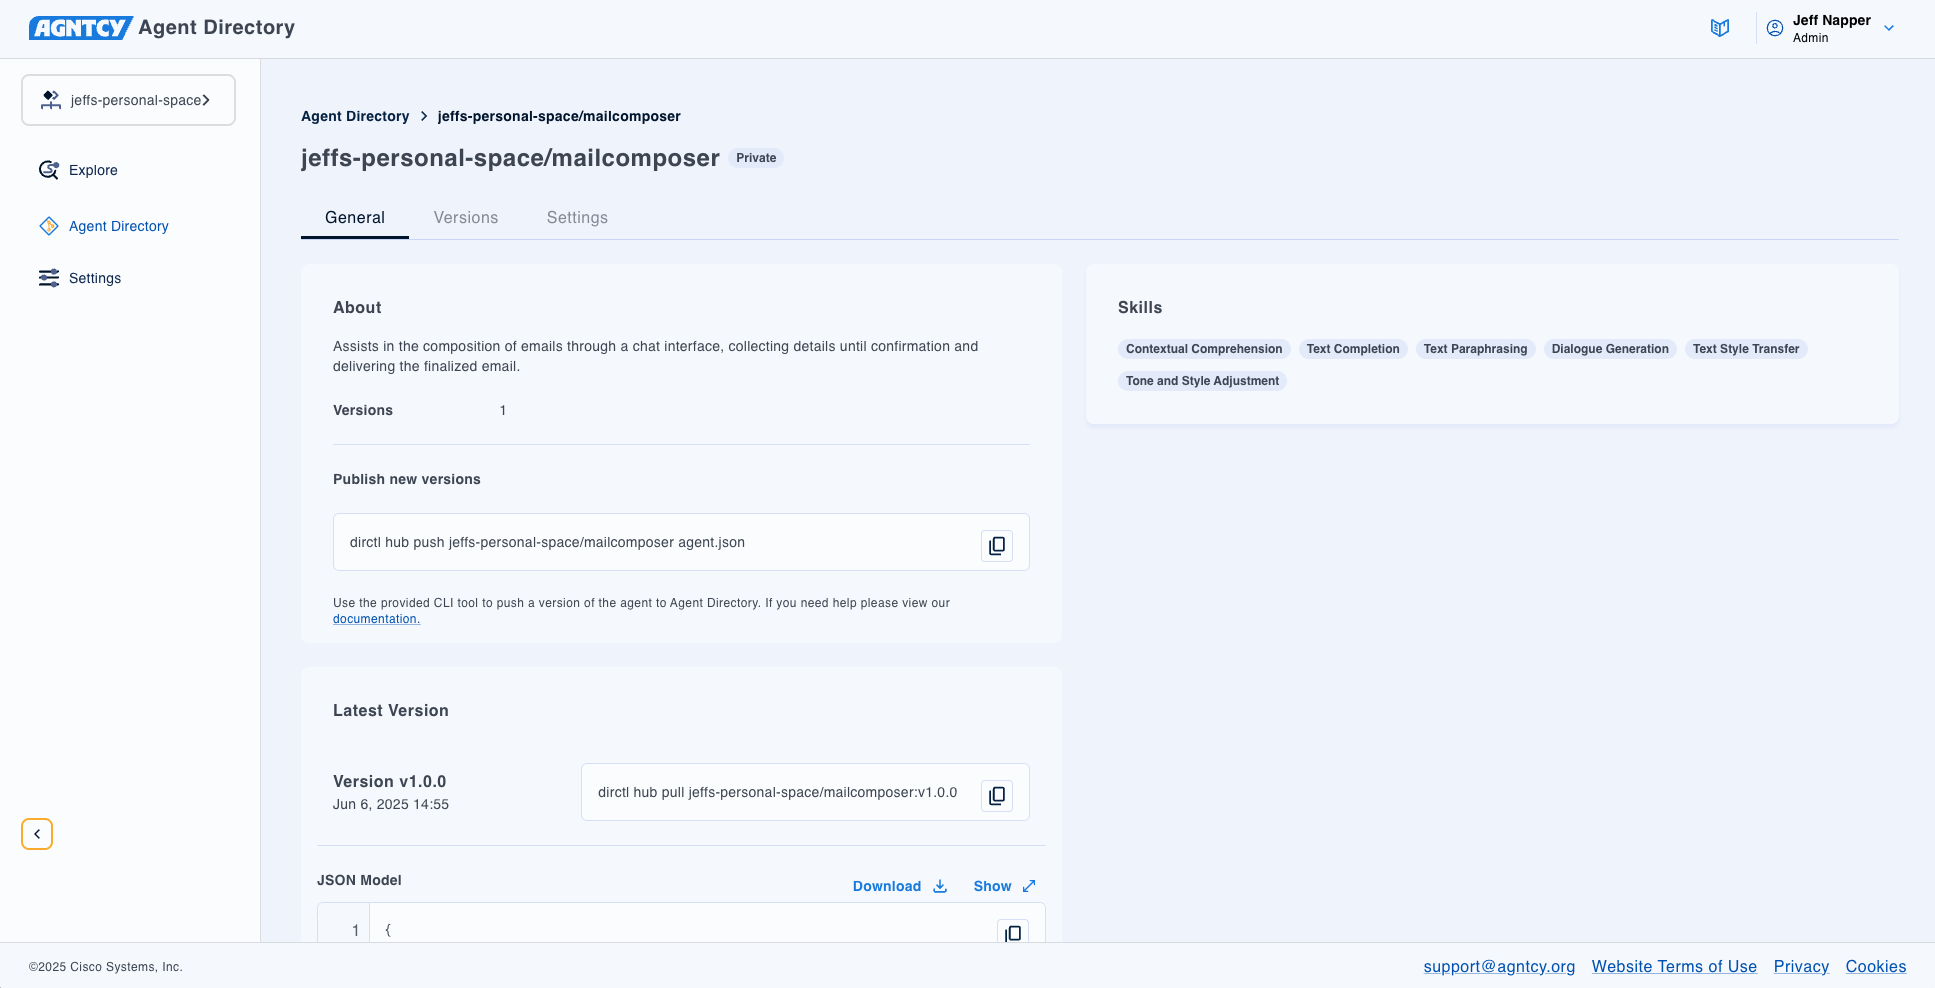
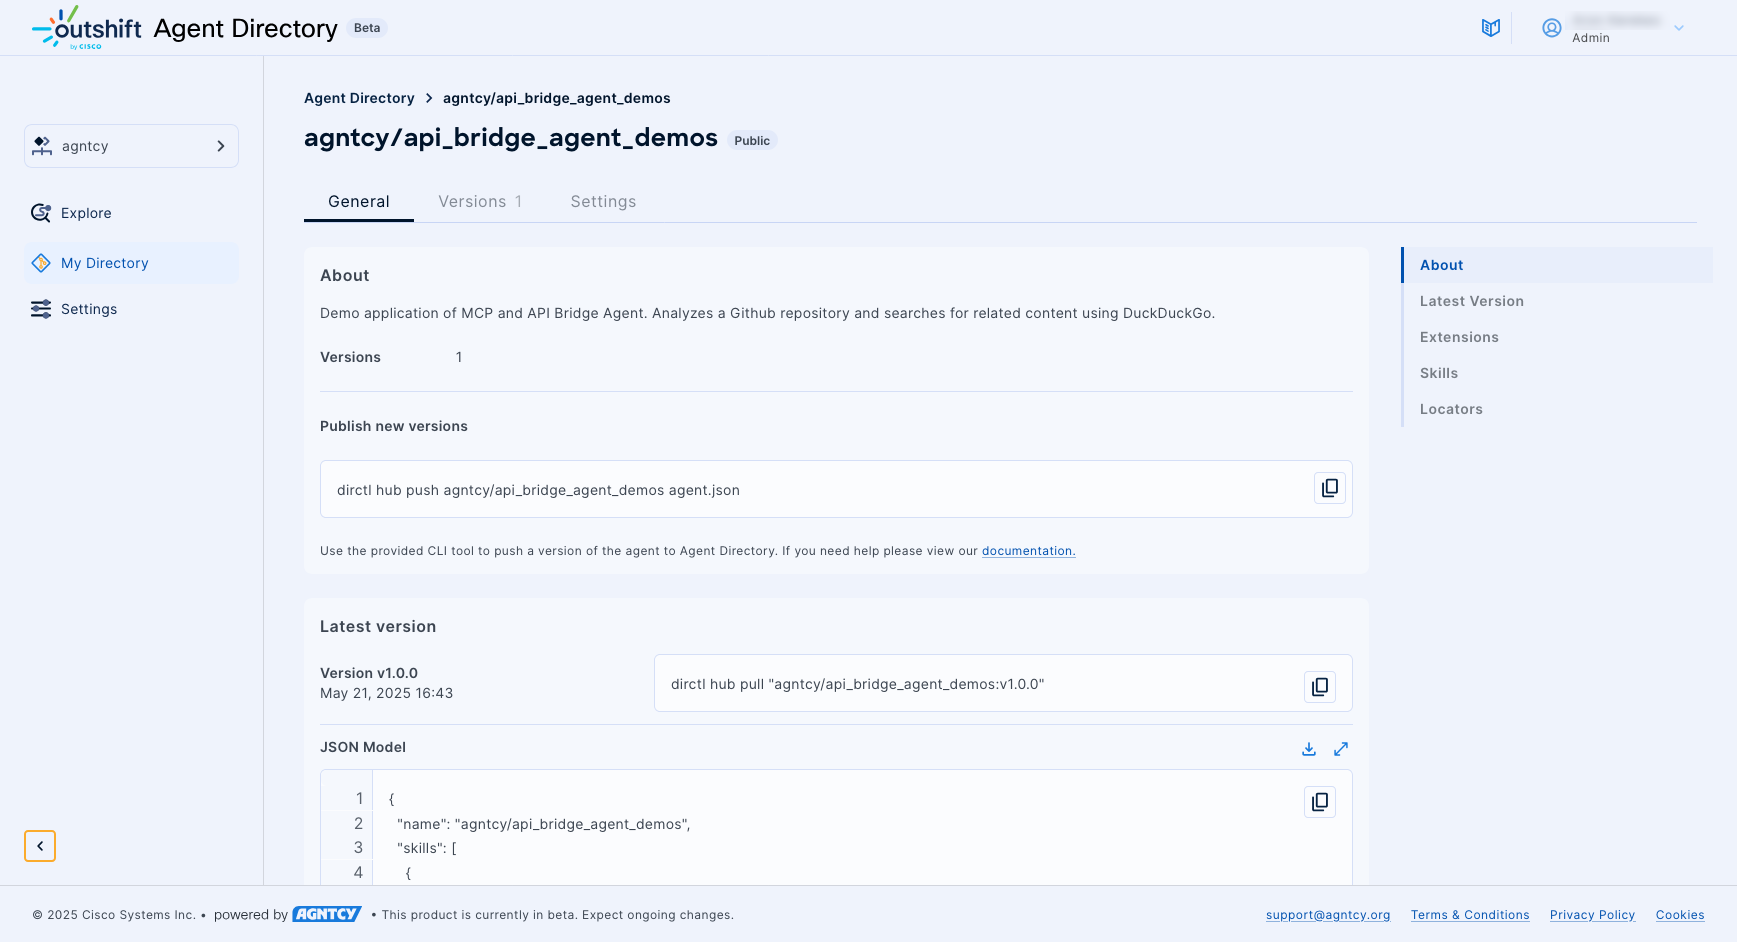
feat: directory saas UI update (#197)
* chore: ui updates

* chore: screenshot updates

* chore: updated hosted directory docs with a2a and mcp records

* chore: implementing review comments

---------

diff --git a/docs/dir/hosted-agent-directory.md b/docs/dir/hosted-agent-directory.md
@@ -13,7 +13,6 @@ point for organizing and accessing agent records. This hosted service is enhance
 gRPC API that supports efficient service communication and integration, ensuring
 seamless interaction between components.
 
-
 Outshift Agent Directory serves as a central platform for hosting and managing various
 agent-related services. The main purpose of the Agent Directory Service
 component is to provide a comprehensive solution
@@ -35,25 +34,25 @@ organizations are flat and cannot belong to one another.
 particular agentic application or service. The schema of the Record is defined
 in [OASF](../oasf/open-agentic-schema-framework.md) and contains, for example, a
 [collection of skills](../oasf/taxonomy.md).
-* Repositories - A agent repository collects agent records that describe
+* Repositories - An agent repository collects agent records that describe
 different versions of the same agent into one location to provide an overview of
-its history and current status. A Record can belong to only one repo, while a
+its history and current status. A record can belong to only one repo, while a
 user or organization may access many different repos and by extension their
 agent records.
 
 The [Agent Directory Service (ADS)](../dir/overview.md) provides storage for agent records
 while the frontend hosted Outshift Agent Directory provides access control with
-Users and their Organizations and management of agent records in their Repos.
+Users and their Organizations and management of agent records in their Repositories.
 
 ## Features
 
 Outshift Agent Directory, powered by AGNTCY, enables users to:
 
-* View and search for public agent records.
-* View your organization's public and private agent records.
-* Publish agent records to an agent repository.
+* View and search for public agent, A2A card, or MCP server records.
+* View your organization's public and private agent, A2A card, or MCP server records.
+* Publish agent, A2A card, or MCP server records to an agent repository.
 * Access multiple separate organizations.
-* Invite other users your organizations.
+* Invite other users to your organizations.
 
 ## Using the Hub
 
@@ -76,105 +75,98 @@ The Explore page allows users to browse and search through available agent repos
 
 You can refine the results using predefined filters and open search:
 
-* Use the **Search** bar to search for a text string in a repository name. To
-clear the search bar, click the **×**.
-* Use the drop-down **Filters** list to narrow the results by Agent Skill.
-* Use the drop-down **Sort by** list to sort the displayed items by Most Recent
-or Oldest.
+* Use the **Search** bar to search for a text string in a repository name. To clear the search bar, click the **×**.
+* Use the **Creation** filter to narrow the results by the date of creation of the record.
+* Use the record type drop down menu to filter by agent or MCP server records.
+* Use the drop-down **Agent Skills** list to narrow the results by skill.
+* Use the drop-down **Locators** list to narrow the results by locator type.
+* Use the drop-down **Extensions** list to narrow the results by extension type.
+* Use the drop-down sort by list to sort the displayed items by most recent or oldest.
 
-You can change organizations by clicking the Org drop-down list and selecting
-another organization.
+### Manage Records Associated with Your Organization
 
-### Manage Agents associated with Your Organization
-
-The Agent Directory Page allows you to view, edit, and create agent repositories
-in the Outshift Agent Directory. Here the records are displayed in a table with customizable columns.
-
-You can select which columns are displayed, and in which order, by clicking the
-**Arrange Columns** button (**▥**).
-
-You can reload the listed items by clicking the **Reload** button (**⟳**).
+The My Directory Page allows you to manage repositories and view agent, A2A card, or MCP server records in the Outshift Agent Directory. Here the records are displayed in a table.
 
 You can refine the results using predefined filters and open search:
 
-* Use the **Search** bar to search for a text string in an agent repository
-name. To clear the search, click the **×**.
-* Use the drop-down **Filters** list to narrow the results by Agent Skill.
-* Use the drop-down **Sort by** list to sort the displayed items by Most Recent
-or Oldest.
+* Use the **Search** bar to search for a text string in a repository name. To clear the search bar, click the **×**.
+* Use the **Creation** filter to narrow the results by the date of creation of the record.
+* Use the record type drop down menu to filter by agent or MCP server records.
+* Use the drop-down **Agent Skills** list to narrow the results by skill.
+* Use the drop-down **Locators** list to narrow the results by locator type.
+* Use the drop-down **Extensions** list to narrow the results by extension type.
 
-![The Agent Directory Page](../assets/directory.png)
+![The My Directory Page](../assets/directory.png)
 
 #### Agent Actions
 
-Clicking the three dots (**⁝**) at the end of any row in the Agent Directory
-table opens a drop-down list of actions you can perform on that agent
-repository.
+Clicking the three dots (**⁝**) at the end of any row in the Agent Directory table opens a drop-down list of actions you can perform on that record.
 
-* Click **Open Details** to [view the agent details](#agent-details).
-* Click **Edit** to edit the agent.
-* Click **Delete** to remove the agent repo from the directory, including all
-of its agent records.
+* Click **Edit** to edit the record.
+* Click **Delete** to remove the record from the directory, including all of its agent records.
 
-#### Agent Details
+#### Record Details
 
-Clicking on an agent repository opens the Agent Details page with further
-information on the agent repository.
+Clicking on an agent, A2A card, or MCP server repository opens the Record Details page with further
+information on the repository.
 
 ![The Agent Details Page](../assets/agent.png)
 
-The **General** tab lists the following information from the agent record:
+The **General** tab lists the following information from the record:
 
-* A description of the agent.
-* The skills associated with the agent.
+* A description and the creator of the record.
 * The version number and date of publishing.
-* The CLI command to push a new version of the agent.
+* The extensions of the record.
+* For agent records:
+    * The skills associated with the agent.
+    * The locators of the agent.
+* For MCP server records:
+    * The tools of the MCP server.
+    * The resources of the MCP server.
+    * The prompts of the MCP server.
 
-The **Versions** tab lists the published versions of the agent.
+The **Versions** tab lists the published versions of the record and the CLI command to push a new version of the record.
 
-The **Settings** tab allows the owner to change the
-visibility of the agent.
+The **Settings** tab allows the owner to change the visibility of the agent.
 
 ## Add an Agent Directory Record to the Outshift Agent Directory
 
 Agent directory records are associated with a repository. A repository must
 exist first for an agent record to be added to it.
 
-### Create a new agent repository
+### Create a New Repository
 
-To add an agent repository in the Outshift Agent Directory:
+To add an agent, A2A card, or MCP server repository in the Outshift Agent Directory:
 
 1. Click the **+ New Repository** button.
 1. Enter the repository name.
-1. Select the visibility for your agent repository.
-    * Public agent repositories appear in search results.
-    * Private agent repositories are only visible in your organization.
+1. Select the visibility for your repository.
+    * Public repositories appear in search results.
+    * Private repositories are only visible in your organization.
 1. Click **Publish**.
 1. Click **Finish**.
 
-At this point, you have an empty repository ready for agent records.
+At this point, you have an empty repository ready for agent, A2A card, or MCP server records.
 
 ### Adding an Agent Directory Record to a Repository
 
-Adding an Agent Directory Record has these prerequisites:
+Adding an Agent Directory Record has the following prerequisites:
 
-1. You need to install the Outshift Agent Directory command line tool, `dirctl`.
-1. You need an agent record that conforms to Outshift Agent Directory requirements.
-1. You need to sign your agent record.
+1. The Outshift Agent Directory command line tool, `dirctl`.
+1. A signed agent record that conforms to Outshift Agent Directory requirements.
 
-#### Pre-req 1: Install `dirctl`
+#### Installing `dirctl`
 
 Binary packages and installation of the Outshift Agent Directory `dirctl`
 command line tool are available in multiple forms on GitHub:
 
-* [container image](https://github.com/agntcy/dir/pkgs/container/dir-ctl)
-* [homebrew](https://github.com/agntcy/dir/tree/main/HomebrewFormula)
-* [binary](https://github.com/agntcy/dir/releases)
+* [Container image](https://github.com/agntcy/dir/pkgs/container/dir-ctl)
+* [Homebrew](https://github.com/agntcy/dir/tree/main/HomebrewFormula)
+* [Binary](https://github.com/agntcy/dir/releases)
 
-After installation, use the `dirctl` and `dirctl hub` commands to list the
-available commands.
+After installation, use the `dirctl` and `dirctl hub` commands to list the available commands.
 
-#### Pre-req 2: Create a Conforming Agent Directory Record
+#### Creating an Agent Directory Record
 
 An Agent Directory record is stored in JSON format. The record is specific
 to one entry in the Agent Directory. The structure of each AD record is
@@ -182,16 +174,21 @@ defined by the
 [OASF](/docs/oasf/open-agentic-schema-framework.md)
 starting at the root with an [Agent object](https://schema.oasf.outshift.com/objects/).
 
-To be useful, an agent record should include at least the following:
-* Name of the agent (the name MUST match the organization and repository name in the Outshift Agent Directory), 
-* Version of the agent (use semantic convention)
-* Description (something to help any viewer understand what your agent does, what is the use case it is applicable to, expected inputs and outputs, LLM used, runtime, etc)
+To be useful, an agent, A2A card, or MCP server record should include at least the following:
+
+* Name of the agent, A2A card, or MCP server.
+
+    !!! note
+        The name must match the organization and repository name in the Outshift Agent Directory. 
+
+* Version of the agent, A2A card, or MCP server (use semantic convention).
+* Description: something to help any viewer understand what your agent, A2A card, or MCP server does, what is the use case it is applicable to, expected inputs and outputs, LLM used, runtime, etc.
 * Locator, per [OASF locator objects](https://schema.oasf.outshift.com/objects/locator?extensions=)
   * type(s) (source code, agent as a service, docker image, etc) matching the supported types in the OASF locator objects
   *  url (corresponding address to find the agent)
-* Skills - MUST follow the [OASF skills schema](https://schema.oasf.outshift.com/skills?extensions=)
+* Skills, following the [OASF skills schema](https://schema.oasf.outshift.com/skills?extensions=)
 
-And it will look like this
+And it will look like this:
 
 ```json
 {
@@ -212,31 +209,34 @@ And it will look like this
 }
 ```
 
-#### Pre-req 3: Signing Agent Directory Records using `dirctl`
+#### Signing Agent Directory Records using `dirctl`
 
 You must sign the record before pushing it to the Outshift Agent Directory. Unsigned records are
 rejected by the API.
 
-To sign an agent record in the file `agent.json` using the default provider [sigstore](https://www.sigstore.dev/), run:
+To sign an agent, A2A card, or MCP server record in the file `record.json` using the default provider [Sigstore](https://www.sigstore.dev/), run:
 
 ```shell
-dirctl sign agent.json > agent.signed.json
+dirctl sign record.json > record.signed.json
 ```
 
 The signing service login page opens in your browser. Use your credentials to log in. The
-agent record will be augmented with a generated signature and will be output
-in JSON format. The new signed agent record can be pushed to the Hub.
+agent, A2A card, or MCP server record will be augmented with a generated signature and will be output
+in JSON format.
 
-For further details on signing, please see
-[the Agent Directory HOWTO](../dir/scenarios.md#signing-and-verification).
+You can validate the record using the [OASF Schema API](https://schema.oasf.outshift.com/doc/index.html#/Validation/SchemaWeb.SchemaController.validate_object).
 
-#### Pushing Agent Directory Records using `dirctl`
+The signed agent, A2A card, or MCP server record can be pushed to the Hub.
 
-Once all pre-requisites are complete, you are ready to push an agent record to an agent repository
+For further details on signing, see the [Agent Directory HOWTO](../dir/scenarios.md#signing-and-verification).
+
+### Pushing Agent Directory Records using `dirctl`
+
+Once all prerequisites are met, you are ready to push an agent record to an agent repository
 that you have write access to. If the repository does not exist, it will be
 created automatically with visibility set as private.
 
-Pushing and pulling agent directory records is done using the `dirctl` tool.
+Pushing and pulling Agent Directory records is done using the `dirctl` tool.
 
 From your terminal window:
 
@@ -244,7 +244,7 @@ From your terminal window:
 
       ```dirctl hub login```
 
-1. The login page opens in your browser. Use your credentials to log in.
+    The login page opens in your browser. Use your credentials to log in.
 
 1. Verify your Outshift Agent Directory organizations and which one you are currently logged into:
 
@@ -256,7 +256,7 @@ From your terminal window:
 
 1. Push your signed, conforming agent record to the desired organization/repository:
 
-      ```dirctl hub push <organization/repository_name> <local filename of your signed agent json file>```
+      ```dirctl hub push <organization/repository_name> <signed record json>```
 
 1. When you're done, logout of your hub account
 
@@ -264,7 +264,7 @@ From your terminal window:
 
 #### Pulling Agent Directory Records using `dirctl`
 
-You can also pull an agent directory record via `dirctl` using the command listed on the agent details page.
+You can also pull an Agent Directory record via `dirctl` using the command listed on the agent details page.
 
 #### Verifying an Agent Directory Record Signature
 
@@ -295,7 +295,7 @@ The settings page allows you to manage your organizations and their users.
 #### List Organizations
 
 Organizations represent groups of users within the Hub, each with its own
-repositories. Users can be member of many organizations. The organizations
+repositories. Users can be members of many organizations. The organizations
 available to you are listed under the **Organizations** tab.
 
 #### Switch Organization
@@ -319,7 +319,7 @@ To create a new organization:
 
 #### Manage Users
 
-The list of users of the current organization are accessible by clicking on the organization (in bold) in the list.
+The list of users of the current organization is accessible by clicking on the organization (in bold) in the list.
 
 You can invite other users to the organization by clicking the **+ Invite User**
 button.
